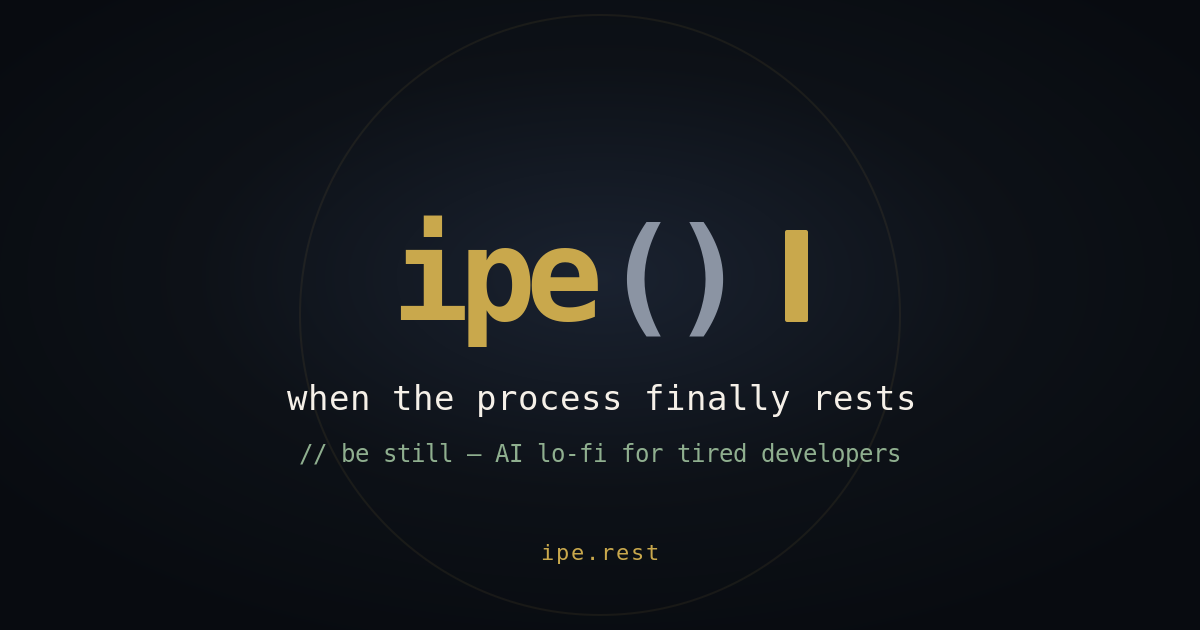
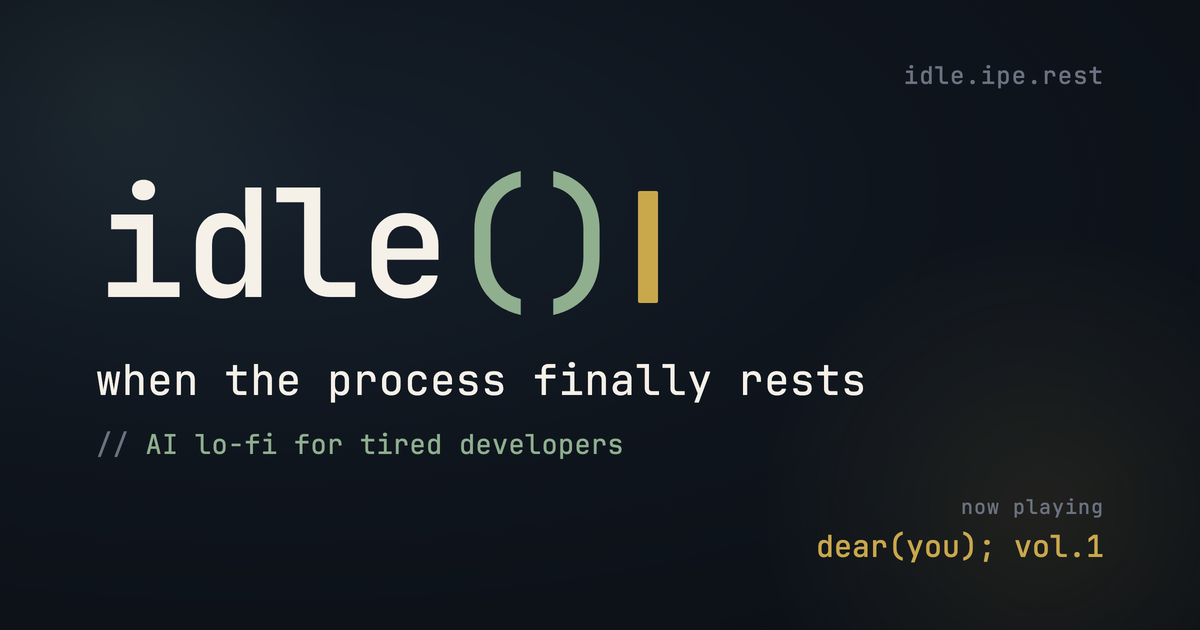
feat(idle): 전용 dear you 커버 + idle 다크 og-image 적용 (Hue)
- 히어로 플레이어 카드 + featured album 커버를 임시 유튜브 썸네일 →
  전용 코지 라떼 커버(assets/covers/dear-you.jpg, 1400×1400)로 교체
- og-image.png를 우산(밝은) 톤 → idle() 다크 브랜드 카드(1200×630)로 신규
- 대안 커버 동반: dear-you-titled(오버레이)·dear-you-wide(가로)
- 커버 출처: Unsplash License (photo-1541167760496)

diff --git a/index.html b/index.html
@@ -703,7 +703,7 @@
 
       <article class="player" aria-label="Now playing: dear you">
         <div class="player-cover">
-          <img src="https://i.ytimg.com/vi/Y8pLkgO2HlQ/hqdefault.jpg" alt="dear you album cover" width="640" height="676" loading="eager">
+          <img src="assets/covers/dear-you.jpg" alt="dear you album cover" width="1400" height="1400" loading="eager">
         </div>
         <div class="player-info">
           <p class="player-kicker ltr">dear(you); vol.1</p>
@@ -740,7 +740,7 @@
         <p class="feature-label ltr">// featured album</p>
         <div class="album-feature">
           <div class="mini-cover">
-            <img src="https://i.ytimg.com/vi/Y8pLkgO2HlQ/hqdefault.jpg" alt="dear you album cover" width="320" height="320" loading="lazy">
+            <img src="assets/covers/dear-you.jpg" alt="dear you album cover" width="1400" height="1400" loading="lazy">
           </div>
           <div>
             <h3 class="ltr">dear(you); vol.1</h3>
